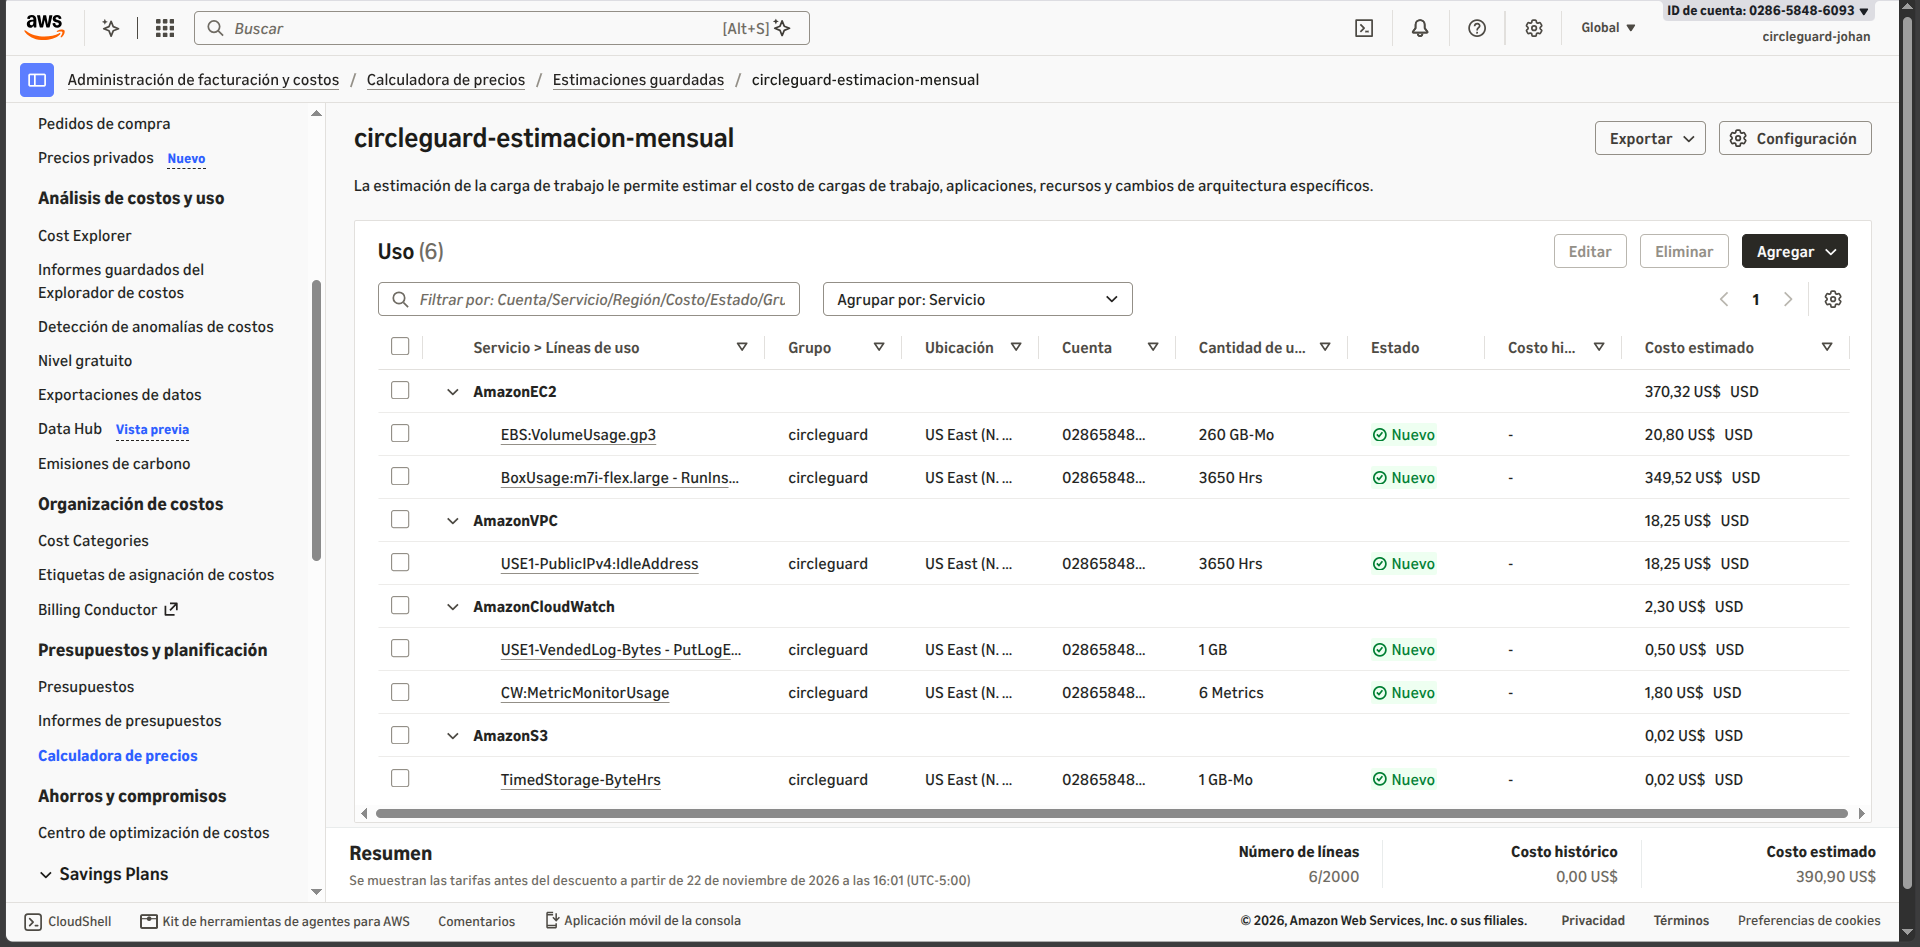
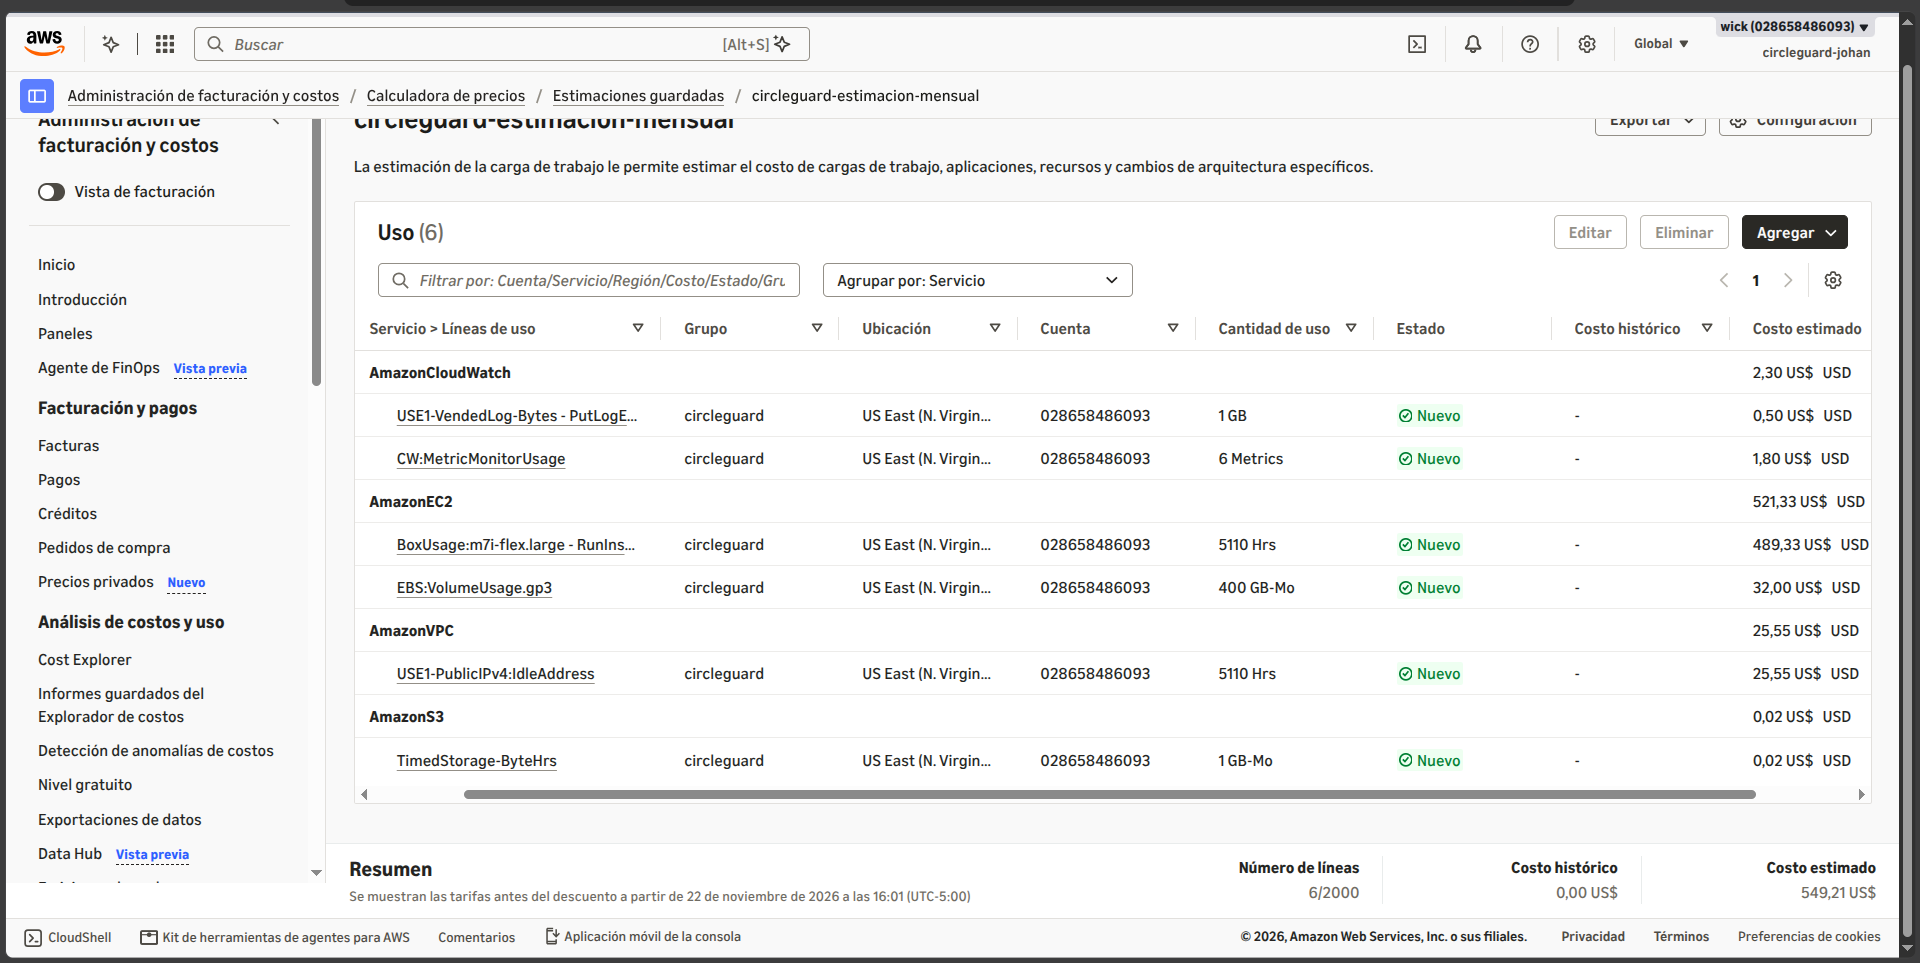
docs(costos): update estimate with the build workers

diff --git a/docs/costos/estimacion.md b/docs/costos/estimacion.md
@@ -25,10 +25,10 @@ La captura de la estimación de AWS Pricing Calculator se incluye a continuació
 
 | Recurso | Cantidad | Fuente |
 |:---|:---|:---|
-| Instancias `m7i-flex.large` encendidas | 5 | `aws ec2 describe-instances` |
+| Instancias `m7i-flex.large` encendidas | 7 | `aws ec2 describe-instances` |
 | Hosts legacy `m7i-flex.large` detenidos | 3 | `aws ec2 describe-instances` |
-| Volúmenes EBS gp3 | 8 (260 GB) | `aws ec2 describe-volumes` |
-| Direcciones IPv4 públicas | 5 (4 EIP + la IP de `tools`) | `aws ec2 describe-addresses` |
+| Volúmenes EBS gp3 | 11 (400 GB: 380 GB de CircleGuard + 20 GB de `citypulse`) | `aws ec2 describe-volumes` |
+| Direcciones IPv4 públicas | 7 (4 EIP + `tools` + 2 workers) | `aws ec2 describe-addresses` |
 | Repositorios ECR | 24 (0 imágenes) | `aws ecr describe-repositories` |
 | Buckets de archivos | 3 (vacíos) | `aws s3api list-object-versions` |
 | Bucket del state | 1 (4 objetos, ≈283 KB) | `aws s3api list-objects-v2` |
@@ -41,21 +41,24 @@ La captura de la estimación de AWS Pricing Calculator se incluye a continuació
 
 | Concepto | Cantidad | Precio unitario aproximado | Mensual |
 |:---|:---|:---|:---|
-| EC2 `m7i-flex.large` Linux | 5 × 730 h | ≈$0.0958/h | $349.52 |
-| EBS gp3 | 260 GB | $0.08/GB-mes | $20.80 |
-| IPv4 pública | 5 × 730 h | $0.005/h | $18.25 |
+| EC2 `m7i-flex.large` Linux | 7 × 730 h (5110 h) | ≈$0.0958/h | $489.33 |
+| EBS gp3 | 400 GB | $0.08/GB-mes | $32.00 |
+| IPv4 pública | 7 × 730 h (5110 h) | $0.005/h | $25.55 |
 | CloudWatch (1 GB de logs + 6 métricas) | 1 GB + 6 | — | $2.30 |
 | S3 (state y archivos) | 1 GB | $0.023/GB-mes | $0.02 |
 | ECR | 0 imágenes | — | $0.00 |
 | SNS | notificaciones mínimas | — | $0.00 |
 | DynamoDB on-demand | 456 bytes | — | $0.00 |
 | Transferencia de salida | ≤100 GB | $0.00 (primeros 100 GB) | $0.00 |
-| **Total estimado** | | | **≈ $390.90 USD/mes** |
+| **Total estimado** | | | **≈ $549.21 USD/mes** |
 
-Total del Pricing Calculator: **$390.90 USD/mes**.
+Total del Pricing Calculator: **$549.21 USD/mes**.
 
-Si los 3 hosts legacy se encienden, se suman **≈ $208/mes** de cómputo
-(3 × 730 h × $0.0952); el EBS ya está incluido. Si se encienden solo algunos, el costo se
+Si se excluye `citypulse`, el EBS de CircleGuard es 380 GB y el total aproximado baja a
+**$547.60/mes**.
+
+Si los 3 hosts legacy se encienden, se suman **≈ $210/mes** de cómputo
+(3 × 730 h × $0.0958); el EBS ya está incluido. Si se encienden solo algunos, el costo se
 prorratea.
 
 ## Metodología de la estimación
@@ -63,25 +66,28 @@ prorratea.
 La estimación de precio de lista se construyó en AWS Pricing Calculator
 (<https://calculator.aws/>) para `us-east-1` con estos componentes:
 
-- 5 × Amazon EC2 `m7i-flex.large`, Linux, 730 h/mes.
+- 7 × Amazon EC2 `m7i-flex.large`, Linux, 730 h/mes (CI, 2 workers, tools, 3 k3s).
 - 3 × Amazon EC2 `m7i-flex.large` detenidas (solo EBS; el EBS agregado ya está incluido).
-- 260 GB de EBS gp3.
-- 5 direcciones IPv4 públicas.
+- 400 GB de EBS gp3 (380 GB de CircleGuard + 20 GB de `citypulse`).
+- 7 direcciones IPv4 públicas.
 - 24 repositorios ECR y 0 GB de imágenes.
 - 1 GB de S3 Standard.
 - 24 log groups de CloudWatch, 1 GB de ingesta estimada y 6 alarmas.
 - 3 topics SNS, DynamoDB on-demand y la transferencia estimada.
 
-La captura de la estimación se incluye al inicio de este documento. Las cantidades de esta
-tabla se actualizan cuando cambia el inventario de la cuenta.
+La captura de la estimación se incluye al inicio de este documento y corresponde al
+inventario con los dos build workers de Jenkins. Las cantidades de esta tabla se actualizan
+cuando cambia el inventario de la cuenta.
 
 ## Comparación con el costo real
 
 El periodo real consultado (1–22 de noviembre de 2026) tiene un uso de **$59.72**, cubierto
 por **−$59.72** de créditos, para un neto de **≈ $0**. No es directamente comparable con los
-≈$390.90 del mes completo porque:
+≈$549.21 del mes completo porque:
 
 - El periodo es parcial y los nodos k3s se crearon el 15 de noviembre.
+- Los dos build workers de Jenkins se agregaron el 22 de noviembre, cerca del final del
+  periodo consultado.
 - Los 3 hosts legacy están detenidos.
 - La cuenta tiene créditos y posibles descuentos/free tier.
 - Los buckets de archivos y ECR están vacíos.

diff --git a/docs/costos/README.md b/docs/costos/README.md
@@ -8,18 +8,19 @@ Documentación de la estimación y del costo real de la infraestructura del proy
 
 | Concepto | Valor |
 |:---|:---|
-| Estimación on-demand (5 instancias encendidas 24/7, 260 GB EBS, IPv4, servicios) | **≈ $390.90 USD/mes** |
+| Estimación on-demand (7 instancias encendidas 24/7, 400 GB EBS, IPv4, servicios) | **≈ $549.21 USD/mes** |
 | Uso real en Cost Explorer, 1–22 de noviembre de 2026 | **$59.72 USD** |
 | Créditos aplicados en el periodo | **−$59.72 USD** |
 | Neto del periodo | **≈ $0 USD** |
-| Instancias encendidas | 5 (`ci`, `tools`, `k3s-dev`, `k3s-stage`, `k3s-prod`) |
+| Instancias encendidas | 7 (`ci`, `ci-agent-1`, `ci-agent-2`, `tools`, `k3s-dev`, `k3s-stage`, `k3s-prod`) |
 | Hosts legacy detenidos | 3 (`dev`, `stage`, `prod` de la Parte 1) |
-| Volúmenes EBS | 8, 260 GB gp3 en total |
+| Volúmenes EBS | 11, 400 GB gp3 en total (380 GB de CircleGuard + 20 GB de `citypulse`) |
 
 La estimación es una referencia de precio de lista para un mes completo. El costo real
 depende del periodo parcial, de las instancias que estuvieron detenidas, de los descuentos y
-de los créditos de la cuenta. La explicación completa está en
-[`costos-reales.md`](costos-reales.md).
+de los créditos de la cuenta. Los dos build workers de Jenkins se agregaron el 22 de
+noviembre, por lo que el periodo real 1–22 no los cubre completos. La explicación completa
+está en [`costos-reales.md`](costos-reales.md).
 
 ## Documentos
 

diff --git a/docs/costos/costos-reales.md b/docs/costos/costos-reales.md
@@ -42,7 +42,7 @@ Cost Explorer por tipo de cargo: **Usage $59.72**, **Credit −$59.72**, **Tax $
 ## Por qué la factura no coincide con la estimación
 
 La estimación de [`estimacion.md`](estimacion.md) es un mes completo de precio de lista
-on-demand (≈ $390), mientras que el periodo real tiene:
+on-demand (≈ $549.21), mientras que el periodo real tiene:
 
 1. **Periodo parcial:** los datos cubren 22 días, no el mes completo.
 2. **Nodos k3s creados el 15 de noviembre:** solo facturan desde esa fecha.
@@ -51,8 +51,10 @@ on-demand (≈ $390), mientras que el periodo real tiene:
 4. **Créditos de la cuenta:** los $59.72 de uso están cubiertos por créditos.
 5. **Recursos vacíos:** ECR no tiene imágenes y los buckets de archivos están vacíos, así que
    el costo variable es casi nulo.
-6. **Descuentos/free tier:** el precio efectivo puede ser menor que el precio de lista.
-7. **Transferencia y logs:** la estimación usa supuestos; la factura refleja el uso real.
+6. **Build workers nuevos:** los dos workers de Jenkins se agregaron el 22 de noviembre; el
+   periodo 1–22 no los cubre completos, así que la próxima factura reflejará su costo.
+7. **Descuentos/free tier:** el precio efectivo puede ser menor que el precio de lista.
+8. **Transferencia y logs:** la estimación usa supuestos; la factura refleja el uso real.
 
 ## Cómo reproducir los datos
 

diff --git a/docs/executive-summary.md b/docs/executive-summary.md
@@ -50,11 +50,12 @@ rollback and secret rotation.
 ## Cost
 
 A full month of on-demand list pricing for the running infrastructure is estimated at about
-**$390 USD** (five instances, 260 GB EBS, public IPv4, logs and supporting services). The
-actual usage from November 1–22, 2026 was **$59.72**, fully covered by **$59.72 in credits**, for
-a net of approximately **$0**. The difference comes from the partial period, stopped legacy
-hosts, empty image/S3 storage and account credits. The environments remain active for the
-evaluation; the remaining costs and the future teardown procedure are documented separately.
+**$549 USD** (seven running instances, 400 GB EBS, public IPv4, logs and supporting services).
+The actual usage from November 1–22, 2026 was **$59.72**, fully covered by **$59.72 in
+credits**, for a net of approximately **$0**. The difference comes from the partial period,
+the two Jenkins build workers added near the end of that period, stopped legacy hosts, empty
+image/S3 storage and account credits. The environments remain active for the evaluation; the
+remaining costs and the future teardown procedure are documented separately.
 
 ## Limitations and next steps
 
